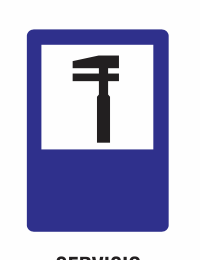
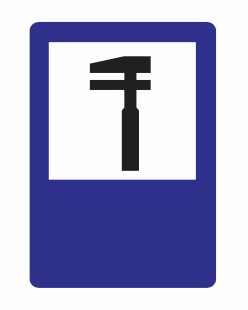
🔧 Corregir imágenes y agregar 2 señales nuevas (24 total)
Correcciones y agregados:
- Agregar 'Terminal de Ómnibus' (terminal de omnibus.png)
- Agregar 'Punto Panorámico' (punto panoramico.png)
- Separar 'Bar' de 'Restaurante' (bar.png vs restaurante.png)
- Reorganizar orden lógico de señales por categorías
- Actualizar título: '21 Señales' → '24 Señales Informativas Principales'
- Verificar que todos los nombres de archivo coincidan exactamente

Distribución por categorías:
- Salud: 1 señal
- Servicios: 9 señales
- Turismo: 8 señales
- Transporte: 6 señales

Changed region(s): [[0.09, 0.0615, 0.9, 0.9538], [0.27, 0.9846, 0.72, 1.0]]

diff --git a/src/components/Guias/SenalesTransitoInformativas.tsx b/src/components/Guias/SenalesTransitoInformativas.tsx
@@ -21,21 +21,24 @@ const SenalesTransitoInformativas: React.FC = () => {
     { id: 4, nombre: 'Mecánico', descripcion: 'Taller mecánico o servicios de reparación', categoria: 'servicios', imagen: 'servicio mecanico.png' },
     { id: 5, nombre: 'Hotel', descripcion: 'Alojamiento y hospedaje', categoria: 'turismo', imagen: 'hotel.png' },
     { id: 6, nombre: 'Restaurante', descripcion: 'Servicio de comidas', categoria: 'turismo', imagen: 'restaurante.png' },
-    { id: 7, nombre: 'Zona de Camping', descripcion: 'Área habilitada para acampar', categoria: 'turismo', imagen: 'campamento.png' },
-    { id: 8, nombre: 'Aeropuerto', descripcion: 'Dirección hacia el aeropuerto', categoria: 'transporte', imagen: 'aeropuerto.png' },
-    { id: 9, nombre: 'Taxi', descripcion: 'Parada de taxis', categoria: 'transporte', imagen: 'taxi.png' },
-    { id: 10, nombre: 'Estacionamiento', descripcion: 'Zona de estacionamiento', categoria: 'servicios', imagen: 'estacionamiento.png' },
-    { id: 11, nombre: 'Zona Recreativa', descripcion: 'Área de recreación y esparcimiento', categoria: 'turismo', imagen: 'lugar para recreacion.png' },
-    { id: 12, nombre: 'Museo', descripcion: 'Museo o sitio de interés cultural', categoria: 'turismo', imagen: 'museo.png' },
-    { id: 13, nombre: 'Correo', descripcion: 'Oficina postal', categoria: 'servicios', imagen: 'correo.png' },
-    { id: 14, nombre: 'Policía', descripcion: 'Comisaría o puesto policial', categoria: 'servicios', imagen: 'policia.png' },
-    { id: 15, nombre: 'Telesférico', descripcion: 'Transporte aéreo por cable', categoria: 'transporte', imagen: 'telesférico.png' },
-    { id: 16, nombre: 'Balneario', descripcion: 'Zona de playa y recreación acuática', categoria: 'turismo', imagen: 'balneario.png' },
-    { id: 17, nombre: 'Gomería', descripcion: 'Servicio de reparación de neumáticos', categoria: 'servicios', imagen: 'gomeria.png' },
-    { id: 18, nombre: 'Plaza', descripcion: 'Espacio público de recreación', categoria: 'turismo', imagen: 'plaza.png' },
-    { id: 19, nombre: 'Detención Transporte Público', descripcion: 'Parada de autobús o transporte público', categoria: 'transporte', imagen: 'detencion transporte publico.png' },
-    { id: 20, nombre: 'Estacionamiento Casas Rodantes', descripcion: 'Área específica para casas rodantes', categoria: 'servicios', imagen: 'estacionamiento casas rodantes.png' },
-    { id: 21, nombre: 'Fiscalización de Velocidad', descripcion: 'Zona de control de velocidad', categoria: 'servicios', imagen: 'fiscalizacion de velocidad.png' }
+    { id: 7, nombre: 'Bar', descripcion: 'Servicio de bebidas y comidas', categoria: 'turismo', imagen: 'bar.png' },
+    { id: 8, nombre: 'Zona de Camping', descripcion: 'Área habilitada para acampar', categoria: 'turismo', imagen: 'campamento.png' },
+    { id: 9, nombre: 'Aeropuerto', descripcion: 'Dirección hacia el aeropuerto', categoria: 'transporte', imagen: 'aeropuerto.png' },
+    { id: 10, nombre: 'Terminal de Ómnibus', descripcion: 'Estación de autobuses', categoria: 'transporte', imagen: 'terminal de omnibus.png' },
+    { id: 11, nombre: 'Taxi', descripcion: 'Parada de taxis', categoria: 'transporte', imagen: 'taxi.png' },
+    { id: 12, nombre: 'Telesférico', descripcion: 'Transporte aéreo por cable', categoria: 'transporte', imagen: 'telesférico.png' },
+    { id: 13, nombre: 'Detención Transporte Público', descripcion: 'Parada de autobús o transporte público', categoria: 'transporte', imagen: 'detencion transporte publico.png' },
+    { id: 14, nombre: 'Estacionamiento', descripcion: 'Zona de estacionamiento', categoria: 'servicios', imagen: 'estacionamiento.png' },
+    { id: 15, nombre: 'Estacionamiento Casas Rodantes', descripcion: 'Área específica para casas rodantes', categoria: 'servicios', imagen: 'estacionamiento casas rodantes.png' },
+    { id: 16, nombre: 'Correo', descripcion: 'Oficina postal', categoria: 'servicios', imagen: 'correo.png' },
+    { id: 17, nombre: 'Policía', descripcion: 'Comisaría o puesto policial', categoria: 'servicios', imagen: 'policia.png' },
+    { id: 18, nombre: 'Gomería', descripcion: 'Servicio de reparación de neumáticos', categoria: 'servicios', imagen: 'gomeria.png' },
+    { id: 19, nombre: 'Fiscalización de Velocidad', descripcion: 'Zona de control de velocidad', categoria: 'servicios', imagen: 'fiscalizacion de velocidad.png' },
+    { id: 20, nombre: 'Zona Recreativa', descripcion: 'Área de recreación y esparcimiento', categoria: 'turismo', imagen: 'lugar para recreacion.png' },
+    { id: 21, nombre: 'Museo', descripcion: 'Museo o sitio de interés cultural', categoria: 'turismo', imagen: 'museo.png' },
+    { id: 22, nombre: 'Plaza', descripcion: 'Espacio público de recreación', categoria: 'turismo', imagen: 'plaza.png' },
+    { id: 23, nombre: 'Balneario', descripcion: 'Zona de playa y recreación acuática', categoria: 'turismo', imagen: 'balneario.png' },
+    { id: 24, nombre: 'Punto Panorámico', descripcion: 'Mirador o punto de vista panorámico', categoria: 'turismo', imagen: 'punto panoramico.png' }
   ];
 
   const categorias = {
@@ -134,7 +137,7 @@ const SenalesTransitoInformativas: React.FC = () => {
             className="mb-12"
           >
             <h2 className="text-3xl font-bold text-gray-900 mb-8 text-center">
-              21 Señales Informativas Principales
+              24 Señales Informativas Principales
             </h2>
             
             <div className="grid grid-cols-2 sm:grid-cols-3 md:grid-cols-4 lg:grid-cols-5 gap-4">
